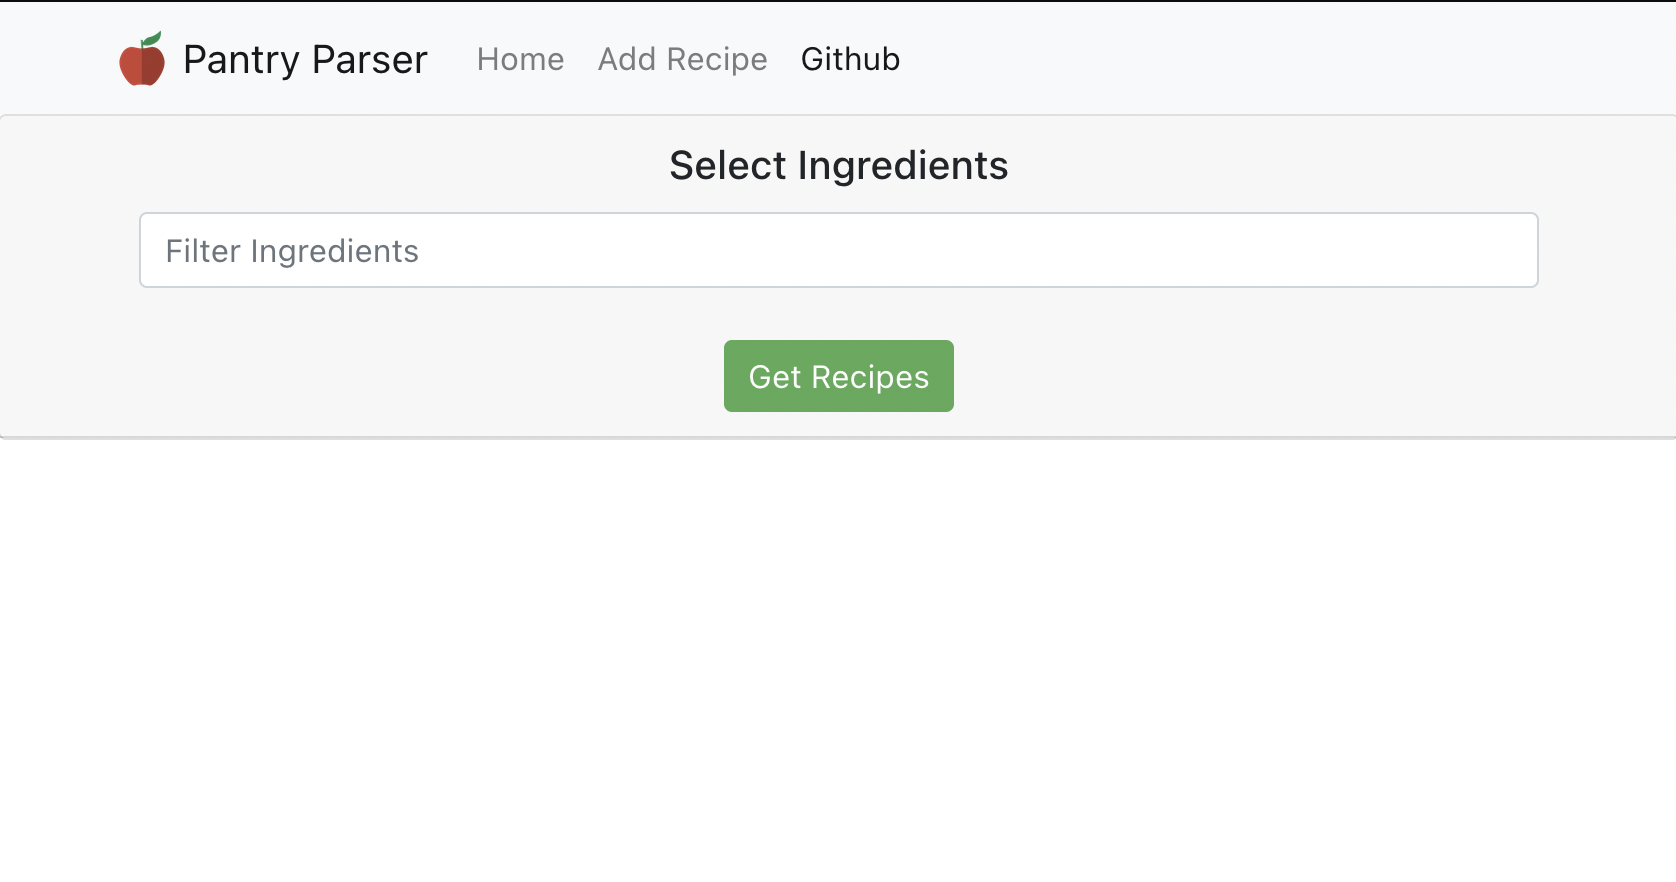
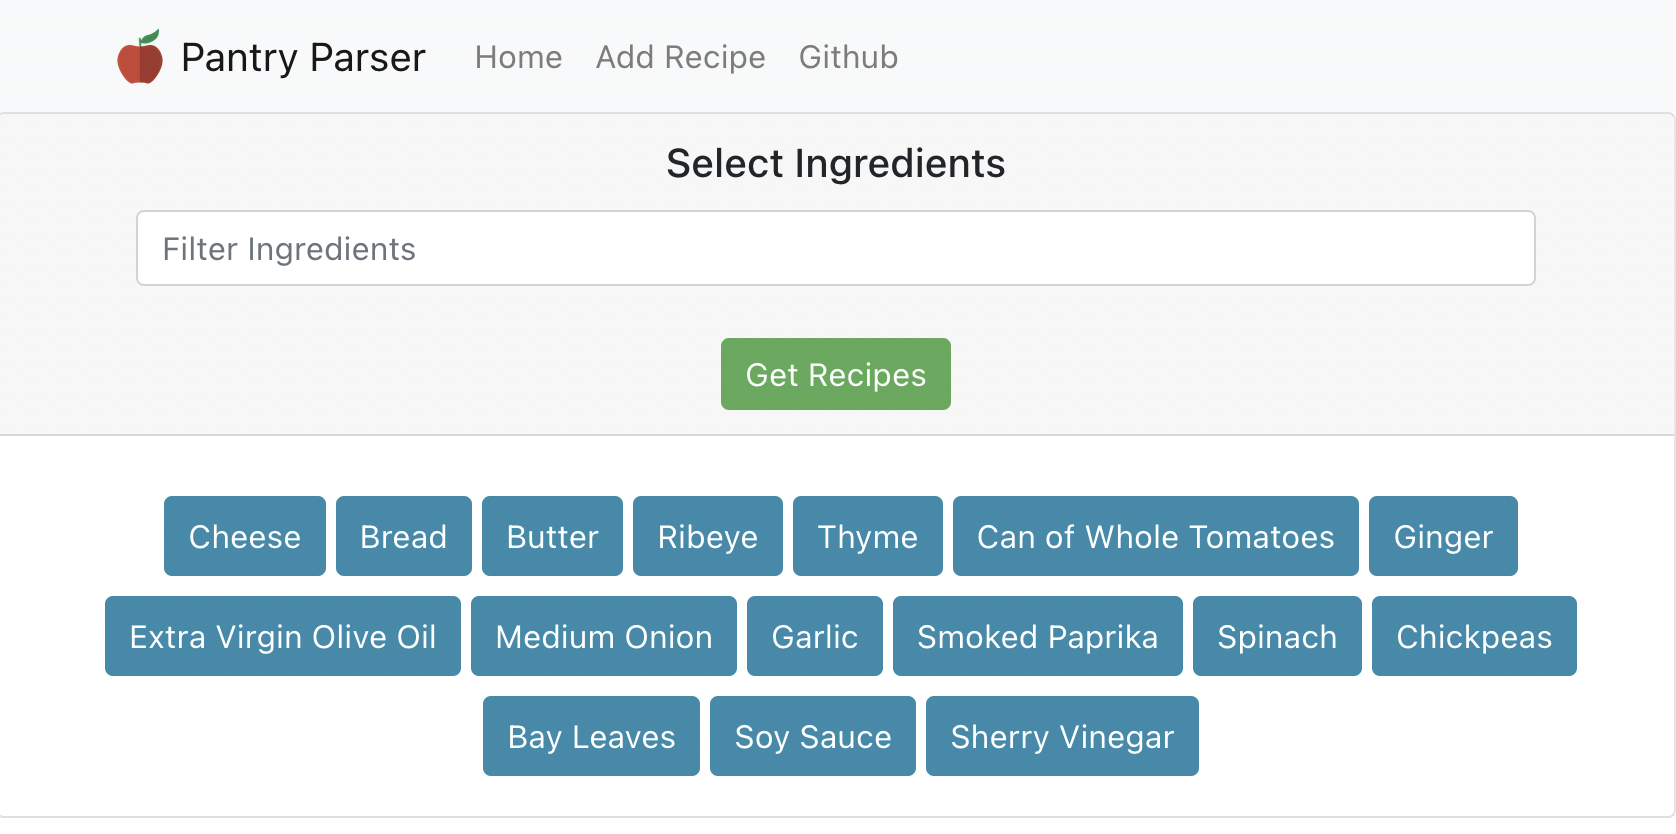
Restyled recipe card and updated no-search behavior of search bar, updating screenshots accordingly

diff --git a/src/components/IngredientSelector.js b/src/components/IngredientSelector.js
@@ -4,34 +4,31 @@ import Card from 'react-bootstrap/Card';
 import Button from 'react-bootstrap/Button';
 
 export function IngredientSelector(props) {
-    const [isLoaded, setIsLoaded] = useState(false);
     const [ingredients, setIngredients] = useState([]);
     const [searchIngredients, setSearchIngredients] = useState([]);
     const [selectedIngredients, setSelectedIngredients] = useState([]);
-    const [lastQuery, setLastQuery] = useState("");
 
     useEffect(() => {
         fetch("http://localhost:8080/ingredients")
             .then(res => res.json())
             .then(
             (result) => {
-                setIsLoaded(true)
                 setIngredients(result)
             }
             )
         }, []);
+    
+    useEffect(() => {
+        setSearchIngredients(ingredients);
+    }, [ingredients]);
 
     function updateIngredientList(ingredientSearchTerm) {
-        setSearchIngredients(ingredientSearchTerm === "" ? [] : ingredients.filter(ingredient => ingredient.name.includes(ingredientSearchTerm)));
-        setLastQuery(ingredientSearchTerm)
+        setSearchIngredients(ingredientSearchTerm === "" ? ingredients : ingredients.filter(ingredient => ingredient.name.includes(ingredientSearchTerm)));
     }
 
     let selectedIngredientsBody;
 
-    if (lastQuery === "") {
-        selectedIngredientsBody = (<span></span>)
-    }
-    else if (searchIngredients.length == 0) {
+    if (searchIngredients.length == 0) {
         selectedIngredientsBody = (
             <Card.Body>
                 <div>No Ingredients Found Matching Search String</div>

diff --git a/src/components/Recipe.js b/src/components/Recipe.js
@@ -23,7 +23,7 @@ export function Recipe(props) {
 
     const IngredientMatching = () => {
         return ingredientsMatching.map((ingredient) => {
-            return <Badge pill style={{backgroundColor: 'lightblue'}}>{ingredient}</Badge>
+            return <Badge pill style={{backgroundColor: 'lightblue', margin: '5px'}}>{ingredient}</Badge>
         });
     }
 

diff --git a/src/App.css b/src/App.css
@@ -55,11 +55,9 @@ h1 {
 }
 
 .ingredientButton {
-  width: 70%;
-  max-width: 500px;
+  height: 40px;
   margin-top: 10px;
   margin-left: 5px;
-  padding: 1em;
 }
 
 .recipe {
